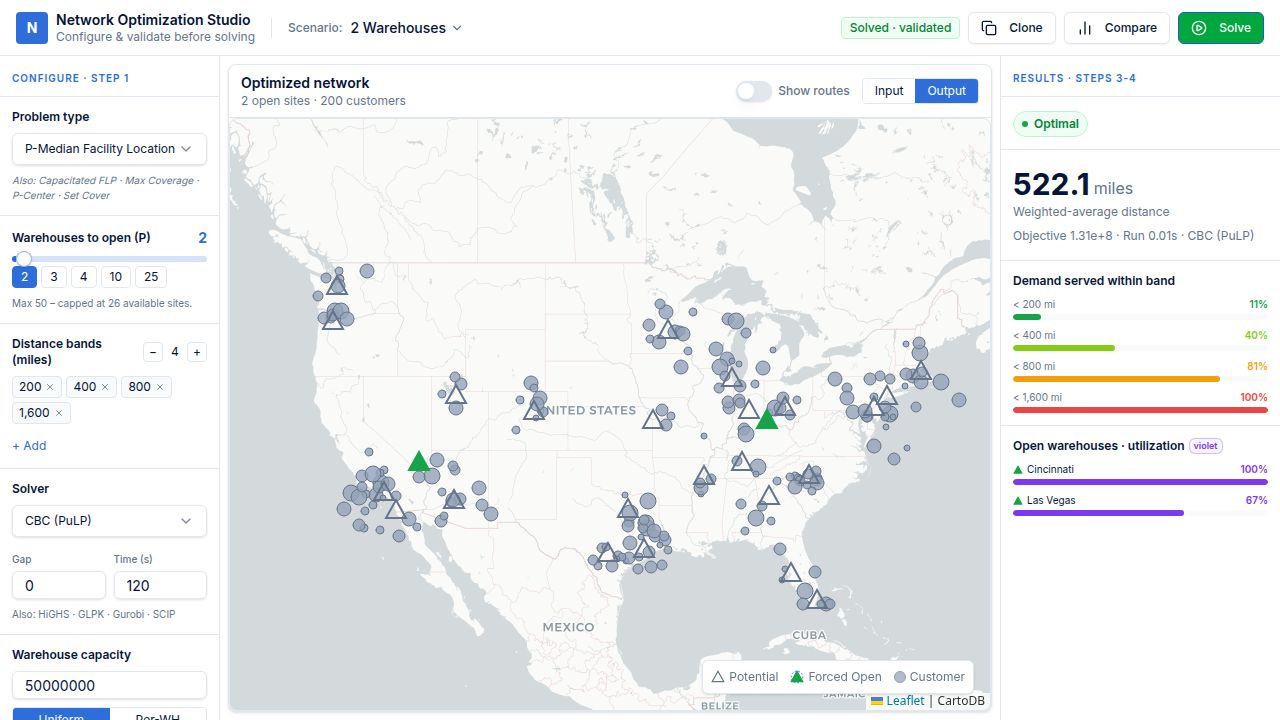
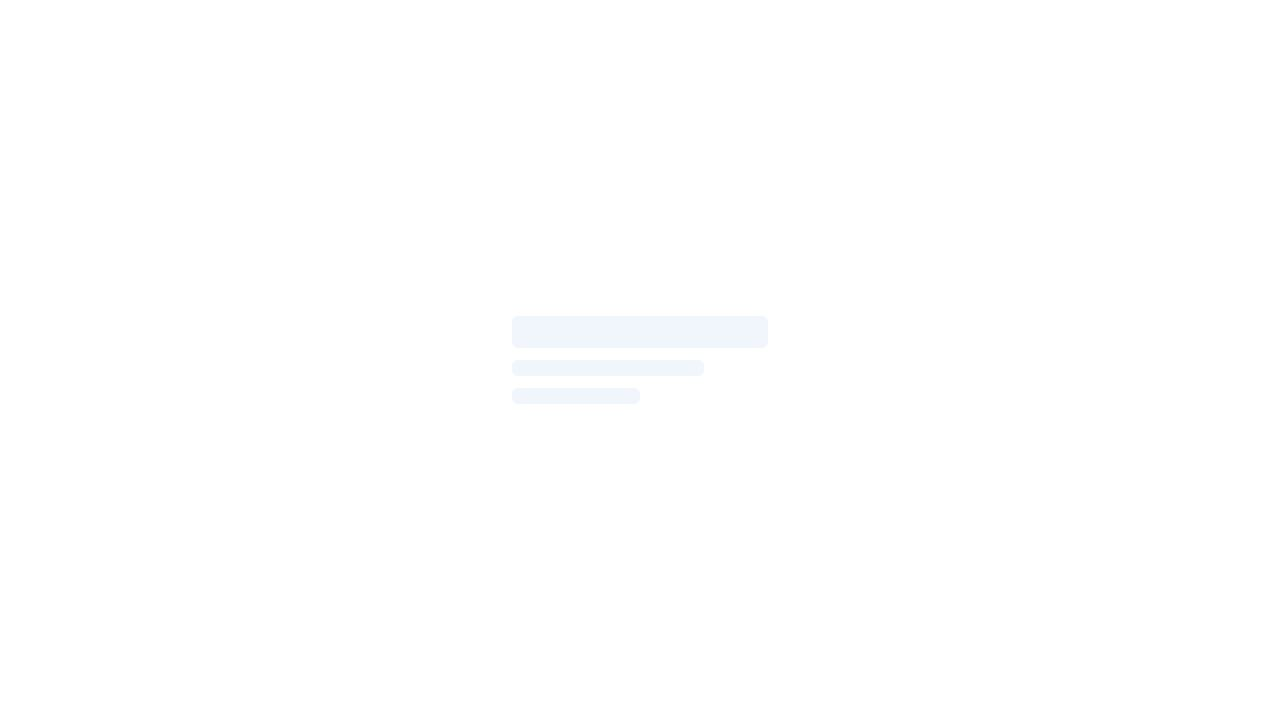
Task #9: Let students filter the map to show only one warehouse's customers
Added warehouse-click filtering to NetworkMap.tsx. Clicking an open warehouse
triangle now spotlights only that warehouse's assigned customers — dimming all
other customer dots and route lines — making it easy to visually inspect each
warehouse's service territory.

Changes:
- Added `selectedWarehouseId` state alongside the existing `selectedCustomerId`
- Computed `warehouseCustomerIds` set (customers assigned to the selected WH)
- Unified focus/dim logic: a customer is "focused" if it belongs to the selected
  warehouse (WH filter mode) or is the clicked customer (customer inspect mode)
- Warehouse markers made clickable for open/forced_open status; clicking toggles
  the filter; clicking the same warehouse again clears it
- Dimmed warehouses (other open ones while a filter is active) rendered at 25% opacity
- Selected warehouse rendered larger (32px) with a yellow ring highlight
- Other open warehouses faded while a filter is active
- Customer dots colored by band when their warehouse is selected (mirrors the
  existing customer-click coloring behavior)
- Route lines for non-focused customers drop to 10% opacity in warehouse filter mode
- Warehouse tooltip now shows customer count (e.g. "Cincinnati · 112 customers")
- Updated hint text: shows "Click warehouse again or map background to reset"
  while filtering; shows the dual hint ("Click warehouse ▲ to filter / Click dot
  to inspect") when routes are visible and no filter is active
[…]

diff --git a/artifacts/studio/src/components/NetworkMap.tsx b/artifacts/studio/src/components/NetworkMap.tsx
@@ -13,7 +13,11 @@ L.Icon.Default.mergeOptions({
   shadowUrl: markerShadow,
 });
 
-const createTriangleIcon = (status: "potential" | "forced_open" | "inactive" | "open") => {
+const createTriangleIcon = (
+  status: "potential" | "forced_open" | "inactive" | "open",
+  highlighted = false,
+  dimmed = false,
+) => {
   let fill = "none";
   let stroke = "#64748B";
   let strokeWidth = "2";
@@ -21,8 +25,8 @@ const createTriangleIcon = (status: "potential" | "forced_open" | "inactive" | "
   let extraCircle = "";
 
   if (status === "open" || status === "forced_open") {
-    fill = "#16A34A";
-    stroke = "#16A34A";
+    fill = highlighted ? "#15803D" : "#16A34A";
+    stroke = highlighted ? "#15803D" : "#16A34A";
   } else if (status === "inactive") {
     stroke = "#DC2626";
     dash = 'stroke-dasharray="4"';
@@ -32,7 +36,16 @@ const createTriangleIcon = (status: "potential" | "forced_open" | "inactive" | "
     extraCircle = `<circle cx="12" cy="12" r="10" fill="none" stroke="#2D6CDF" stroke-width="1.5" stroke-dasharray="3" />`;
   }
 
-  const svg = `<svg width="24" height="24" viewBox="0 0 24 24" xmlns="http://www.w3.org/2000/svg">
+  const ringCircle = highlighted
+    ? `<circle cx="12" cy="12" r="11" fill="none" stroke="#FCD34D" stroke-width="2" />`
+    : "";
+
+  const opacity = dimmed ? 0.25 : 1;
+  const size = highlighted ? 32 : 24;
+  const anchor = highlighted ? 16 : 12;
+
+  const svg = `<svg width="${size}" height="${size}" viewBox="0 0 24 24" xmlns="http://www.w3.org/2000/svg" opacity="${opacity}">
+    ${ringCircle}
     ${extraCircle}
     <polygon points="12,2 22,20 2,20" fill="${fill}" stroke="${stroke}" stroke-width="${strokeWidth}" ${dash} />
   </svg>`;
@@ -40,8 +53,8 @@ const createTriangleIcon = (status: "potential" | "forced_open" | "inactive" | "
   return L.divIcon({
     html: svg,
     className: "",
-    iconSize: [24, 24],
-    iconAnchor: [12, 12],
+    iconSize: [size, size],
+    iconAnchor: [anchor, anchor],
   });
 };
 
@@ -123,6 +136,7 @@ interface NetworkMapProps {
 
 export function NetworkMap({ dataset, warehouseStatuses, result, showRoutes }: NetworkMapProps) {
   const [selectedCustomerId, setSelectedCustomerId] = useState<string | null>(null);
+  const [selectedWarehouseId, setSelectedWarehouseId] = useState<string | null>(null);
 
   const { maxDemand, minDemand } = useMemo(() => {
     let max = 0;
@@ -150,6 +164,16 @@ export function NetworkMap({ dataset, warehouseStatuses, result, showRoutes }: N
     return new Map(result.assignments.map((a) => [a.customerId, a]));
   }, [result]);
 
+  // Set of customer IDs assigned to the currently selected warehouse
+  const warehouseCustomerIds = useMemo(() => {
+    if (!selectedWarehouseId || !result) return null;
+    const ids = new Set<string>();
+    result.assignments.forEach((a) => {
+      if (a.warehouseId === selectedWarehouseId) ids.add(a.customerId);
+    });
+    return ids;
+  }, [selectedWarehouseId, result]);
+
   // Build popup info for the selected customer
   const popupInfo = useMemo<PopupInfo | null>(() => {
     if (!selectedCustomerId || !result) return null;
@@ -170,7 +194,36 @@ export function NetworkMap({ dataset, warehouseStatuses, result, showRoutes }: N
     };
   }, [selectedCustomerId, result, assignmentMap, dataset]);
 
-  const hasSelection = selectedCustomerId !== null && popupInfo !== null;
+  const hasCustomerSelection = selectedCustomerId !== null && popupInfo !== null;
+  const hasWarehouseFilter = selectedWarehouseId !== null && warehouseCustomerIds !== null;
+
+  const handleDeselect = () => {
+    setSelectedCustomerId(null);
+    setSelectedWarehouseId(null);
+  };
+
+  const handleWarehouseClick = (whId: string, status: string, e: L.LeafletMouseEvent) => {
+    L.DomEvent.stopPropagation(e);
+    // Only filter by open/forced_open warehouses that have assignments
+    if (status !== "open" && status !== "forced_open") return;
+    setSelectedCustomerId(null);
+    setSelectedWarehouseId((prev) => (prev === whId ? null : whId));
+  };
+
+  // Determine if a customer is "in focus" based on the active selection mode
+  const isCustomerFocused = (customerId: string) => {
+    if (hasWarehouseFilter) return warehouseCustomerIds!.has(customerId);
+    if (hasCustomerSelection) return customerId === selectedCustomerId;
+    return true;
+  };
+
+  const anySelection = hasCustomerSelection || hasWarehouseFilter;
+
+  const hintText = (() => {
+    if (hasWarehouseFilter) return "Click warehouse again or map background to reset";
+    if (showRoutes && result) return "Click a warehouse ▲ to filter its customers · Click a customer dot to inspect its route";
+    return null;
+  })();
 
   return (
     <div className="relative w-full h-full flex flex-col min-h-0 bg-white border rounded-lg overflow-hidden shadow-sm">
@@ -180,7 +233,7 @@ export function NetworkMap({ dataset, warehouseStatuses, result, showRoutes }: N
         className="w-full flex-1 z-0"
         zoomControl={false}
       >
-        <MapClickDeselect onDeselect={() => setSelectedCustomerId(null)} />
+        <MapClickDeselect onDeselect={handleDeselect} />
 
         {popupInfo && (
           <CustomerPopup
@@ -202,8 +255,8 @@ export function NetworkMap({ dataset, warehouseStatuses, result, showRoutes }: N
               const warehouse = dataset.warehouses.find((w) => w.id === assignment.warehouseId);
               if (!customer || !warehouse) return null;
 
-              const isSelected = assignment.customerId === selectedCustomerId;
-              const dimmed = hasSelection && !isSelected;
+              const focused = isCustomerFocused(assignment.customerId);
+              const dimmed = anySelection && !focused;
 
               return (
                 <Polyline
@@ -214,8 +267,8 @@ export function NetworkMap({ dataset, warehouseStatuses, result, showRoutes }: N
                   ]}
                   pathOptions={{
                     color: getBandColor(assignment.band),
-                    weight: isSelected ? 4 : 2,
-                    opacity: dimmed ? 0.12 : isSelected ? 1 : 0.75,
+                    weight: focused && hasCustomerSelection ? 4 : 2,
+                    opacity: dimmed ? 0.1 : focused && hasCustomerSelection ? 1 : 0.75,
                   }}
                 />
               );
@@ -224,8 +277,16 @@ export function NetworkMap({ dataset, warehouseStatuses, result, showRoutes }: N
 
         {dataset.customers.map((c) => {
           const assignment = assignmentMap.get(c.id);
-          const isSelected = c.id === selectedCustomerId;
-          const dimmed = hasSelection && !isSelected;
+          const focused = isCustomerFocused(c.id);
+          const dimmed = anySelection && !focused;
+          const isCustomerSelected = c.id === selectedCustomerId;
+          const isWarehouseHighlighted = hasWarehouseFilter && focused;
+
+          const fillColor = isCustomerSelected
+            ? getBandColor(assignment?.band ?? 0)
+            : isWarehouseHighlighted
+              ? getBandColor(assignment?.band ?? 0)
+              : "#94A3B8";
 
           return (
             <CircleMarker
@@ -233,14 +294,19 @@ export function NetworkMap({ dataset, warehouseStatuses, result, showRoutes }: N
               center={[c.lat, c.lng]}
               radius={scaleDemand(c.demand)}
               pathOptions={{
-                fillColor: isSelected ? getBandColor(assignment?.band ?? 0) : "#94A3B8",
-                fillOpacity: dimmed ? 0.2 : 0.8,
-                color: isSelected ? getBandColor(assignment?.band ?? 0) : "#64748B",
-                weight: isSelected ? 2.5 : 1,
+                fillColor,
+                fillOpacity: dimmed ? 0.15 : 0.8,
+                color: isCustomerSelected
+                  ? getBandColor(assignment?.band ?? 0)
+                  : isWarehouseHighlighted
+                    ? getBandColor(assignment?.band ?? 0)
+                    : "#64748B",
+                weight: isCustomerSelected ? 2.5 : isWarehouseHighlighted ? 1.5 : 1,
               }}
               eventHandlers={{
                 click: (e) => {
                   L.DomEvent.stopPropagation(e);
+                  setSelectedWarehouseId(null);
                   setSelectedCustomerId((prev) => (prev === c.id ? null : c.id));
                 },
               }}
@@ -250,12 +316,28 @@ export function NetworkMap({ dataset, warehouseStatuses, result, showRoutes }: N
 
         {dataset.warehouses.map((w) => {
           const status = getStatus(w.id);
+          const isOpen = status === "open" || status === "forced_open";
+          const isHighlighted = w.id === selectedWarehouseId;
+          const isDimmed = hasWarehouseFilter && !isHighlighted && isOpen;
+
           return (
-            <Marker key={w.id} position={[w.lat, w.lng]} icon={createTriangleIcon(status)}>
-              {status === "open" && (
+            <Marker
+              key={w.id}
+              position={[w.lat, w.lng]}
+              icon={createTriangleIcon(status, isHighlighted, isDimmed)}
+              eventHandlers={
+                isOpen
+                  ? {
+                      click: (e) => handleWarehouseClick(w.id, status, e),
+                    }
+                  : undefined
+              }
+            >
+              {isOpen && (
                 <Tooltip direction="top" offset={[0, -10]} opacity={1}>
                   <span className="font-semibold text-xs">
                     {w.city}, {w.state}
+                    {result && isOpen ? ` · ${warehouseCustomerIds && w.id === selectedWarehouseId ? warehouseCustomerIds.size : (result.assignments.filter((a) => a.warehouseId === w.id).length)} customers` : ""}
                   </span>
                 </Tooltip>
               )}
@@ -294,9 +376,9 @@ export function NetworkMap({ dataset, warehouseStatuses, result, showRoutes }: N
             ))}
           </div>
         )}
-        {showRoutes && result && (
+        {hintText && (
           <div className="text-[10px] text-muted-foreground pt-0.5 italic">
-            Click a customer dot to inspect its route
+            {hintText}
           </div>
         )}
       </div>